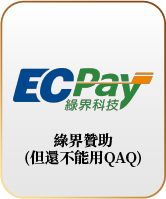
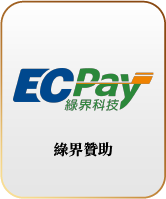
v1.5

Changed region(s): [[0.1506, 0.6633, 0.8735, 0.8442]]

diff --git a/CeresaLinktree.html b/CeresaLinktree.html
@@ -74,14 +74,14 @@
             </div>
             <div class="donate">
                 <div class="donate1">
-                    <!-- <a href="#" target="_blank"></a> -->
+                    <a href="https://p.ecpay.com.tw/EB79F5D" target="_blank"></a>
                 </div>
                 <div class="donate_img"></div>
                 <div class="donate2">
                     <a href="https://payment.opay.tw/Broadcaster/Donate/43B8A0EB5F54CBD308C0BA2FBD9F23B3" target="_blank"></a>
                 </div>
             </div>
-            <div class="Introduction2">
+            <div class="Introduction2" id="notice">
                 <div class="bracketsTop"></div>
                 <p class="Introduction2Title">二次創作規範</p>
                 <p class="Myintroduction2">
